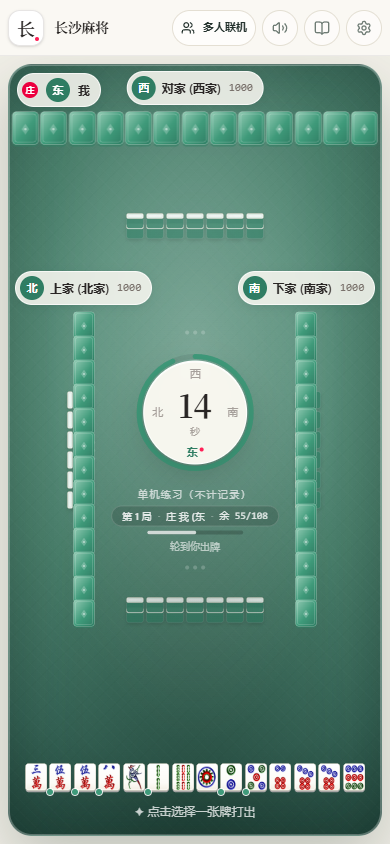
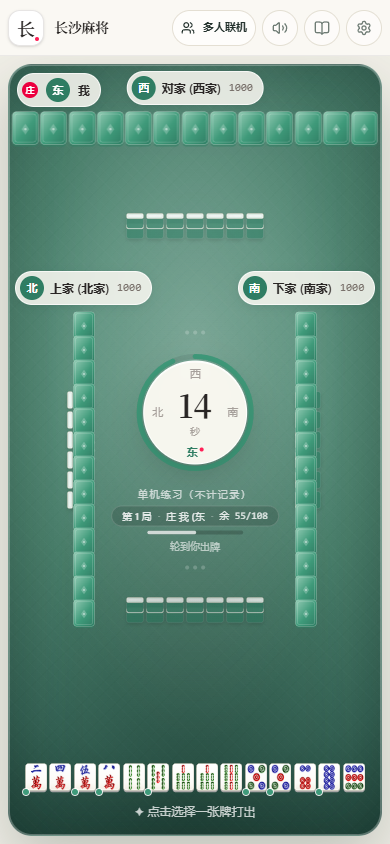
feat: lay melds flat (rotateX) so hand vs meld is unmistakable; clean CSS comments

diff --git a/src/mahjong.css b/src/mahjong.css
@@ -1,5 +1,8 @@
 /* ---------------------------------------------------------------------------
- * 闀挎矙楹诲皢 路 鐡风櫧闈掑矚 鈥?鐗屾鏉愯川銆佸姩鏁堜笌寮圭獥閫氱敤灞? * 鑹插€间竴寰嬪紩鐢?var(--color-*) / rgba锛岄伩鍏嶅湪缁勪欢灞傛暎钀界‖缂栫爜銆? * ------------------------------------------------------------------------- */
+ * 长沙麻将 · 瓷白青岚
+ * 牌桌材质、动效与弹窗通用层。
+ * 色值一律引用 var(--color-*) / rgba，避免在组件层散落硬编码。
+ * ------------------------------------------------------------------------- */
 
 @layer base {
   body {
@@ -14,7 +17,7 @@
   }
 }
 
-/* 闈掔摲姣涙锛氭煍鍜屽緞鍚戞笎鍙?+ 鏋佺粏鐨勭粡绾粐绾癸紙涓嶆槸楂樺姣旇姳绾癸級 */
+/* 青瓷毛毡：柔和径向渐变 + 极细的经纬织纹 */
 .mahjong-table {
   position: relative;
   overflow: hidden;
@@ -44,7 +47,7 @@
     radial-gradient(ellipse at 50% 118%, rgba(10, 28, 22, 0.32), transparent 62%);
 }
 
-/* 鐗屾鍥涘懆鐨勭粏鍐呯嚎锛氫竴鍦堝緢杞荤殑浜竟锛屾浛浠ｉ噾杈?*/
+/* 牌桌四周的一圈轻亮边，替代金边 */
 .table-rim {
   box-shadow:
     inset 0 0 0 1px rgba(255, 255, 255, 0.28),
@@ -53,7 +56,9 @@
 }
 
 /* ---------------------------------------------------------------------------
- * 鍏抽敭甯э細鍙姩 transform / opacity锛岄伩鍏嶅竷灞€鎶栧姩銆? * 鏃堕暱鍏ㄩ儴鏉ヨ嚜 --motion-* token锛涗笉鍋氶樆濉炲紡闀垮姩鐢汇€? * ------------------------------------------------------------------------- */
+ * 关键帧：只动 transform / opacity，避免布局抖动。
+ * 时长全部来自 --motion-* token；不做阻塞式长动画。
+ * ------------------------------------------------------------------------- */
 @keyframes fadeIn {
   from { opacity: 0; }
   to { opacity: 1; }
@@ -129,8 +134,9 @@
 }
 
 /*
- * 鍑虹墝 / 鎽哥墝鑺傚锛圥2-1 鏀跺彛锛屼繚鎸佸師鏈夋祴璇曞绾︼級
- * 瑙勮寖锛氬嚭鐗?鎽哥墝 150鈥?00ms ease-out锛涗笉寰楀嚭鐜般€岃秴杩?300ms 鎵嶈兘缁х画鎿嶄綔銆嶇殑闃诲鍔ㄧ敾銆? */
+ * 出牌 / 摸牌节奏（P2-1 收口，保持原有测试契约）
+ * 规范：出牌/摸牌 150–200ms ease-out；不得出现「超过 300ms 才能继续操作」的阻塞动画。
+ */
 .animate-tile-draw {
   animation: tileDraw var(--motion-base) var(--motion-ease-out) both;
 }
@@ -140,7 +146,8 @@
 }
 
 /* ---------------------------------------------------------------------------
- * 寮圭獥涓庤〃鍗曪細缁熶竴鐨勭焊鎰熷崱鐗囥€佺粏鍒嗛殧绾裤€佸厠鍒剁殑闃村奖銆? * ------------------------------------------------------------------------- */
+ * 弹窗与表单：统一的纸感卡片、细分隔线、克制的阴影。
+ * ------------------------------------------------------------------------- */
 .modal-backdrop {
   position: fixed;
   inset: 0;
@@ -206,7 +213,7 @@
 }
 .modal-close:hover { background: rgba(34, 48, 43, 0.06); color: var(--ui-ink); }
 
-/* 鍒嗘閫夋嫨鍣細涓?涓夋。璁剧疆缁熶竴浣跨敤 */
+/* 分段选择器 */
 .segmented {
   display: grid;
   gap: 0.4rem;
@@ -238,7 +245,7 @@
   box-shadow: 0 2px 8px rgba(34, 48, 43, 0.1);
 }
 
-/* 寮€鍏筹紙鐢ㄧ湡瀹?checkbox + 澶栬锛?*/
+/* 开关：真实 checkbox + 外观 */
 .toggle {
   position: relative;
   width: 2.6rem;
@@ -265,7 +272,6 @@ input:checked + .toggle { background: var(--color-jade-600); }
 input:checked + .toggle::after { transform: translateX(1.1rem); }
 input:focus-visible + .toggle { outline: 2px solid var(--color-jade-600); outline-offset: 2px; }
 
-/* 寮圭獥鍐呯殑淇℃伅鍧?*/
 .info-block {
   border-radius: 1rem;
   border: 1px solid var(--ui-line);
@@ -287,7 +293,14 @@ input:focus-visible + .toggle { outline: 2px solid var(--color-jade-600); outlin
   color: var(--ui-muted);
 }
 
-/* 鐗屾涓績鐨勬柟鍚戞枃瀛椾笌杩涘害鐜?*/
+/* 平躺的副露：绕底边向后仰，视觉上像躺在桌面上；手牌保持立起 */
+.meld-lying {
+  transform: perspective(620px) rotateX(38deg) scale(1.035);
+  transform-origin: 50% 100%;
+  filter: drop-shadow(0 5px 3px rgba(18, 42, 33, 0.28));
+}
+
+/* 桌心瓷盘 */
 .table-center-disc {
   background: rgba(255, 252, 244, 0.94);
   border: 1px solid rgba(255, 255, 255, 0.85);
@@ -298,7 +311,6 @@ input:focus-visible + .toggle { outline: 2px solid var(--color-jade-600); outlin
   -webkit-backdrop-filter: blur(6px);
 }
 
-/* 杞婚噺鐨勭瓑寰?杩炴帴鎸囩ず锛堜笉浣跨敤澶稿紶鐨?ping锛?*/
 .breathe {
   animation: fadeIn var(--motion-base) var(--motion-ease-out) both;
 }

diff --git a/src/components/MahjongTile.jsx b/src/components/MahjongTile.jsx
@@ -65,6 +65,7 @@ export default function MahjongTile({
   isTing = false,
   tingCount = null,
   showJiangBadge = false,
+  lying = false,
   rotation = 0,
   onClick = null,
   onMouseEnter = null,
@@ -152,7 +153,7 @@ export default function MahjongTile({
   if (isBack || !tile) {
     return (
       <div
-        className={`relative inline-block shrink-0 select-none cursor-default ${currentSizeClass} ${className}`}
+        className={`relative inline-block shrink-0 select-none cursor-default ${currentSizeClass} ${lying ? 'meld-lying' : ''} ${className}`}
         style={style}
         aria-hidden="true"
       >
@@ -193,7 +194,7 @@ export default function MahjongTile({
           : 'hover:-translate-y-0.5'
       } ${
         highlight ? 'ring-2 ring-white/90 ring-offset-1 ring-offset-transparent brightness-105 rounded-[10px]' : ''
-      } ${className}`}
+      } ${lying ? 'meld-lying' : ''} ${className}`}
       style={{
         ...style,
         ...dragStyle,

diff --git a/src/components/OpponentHand.jsx b/src/components/OpponentHand.jsx
@@ -114,6 +114,7 @@ export default function OpponentHand({
                           tile={tile}
                           size="discard"
                           isBack={meld.type === 'an_gang'}
+                          lying
                           className="ph-tile animate-deal-in"
                         />
                       </div>
@@ -131,6 +132,7 @@ export default function OpponentHand({
                         tile={tile}
                         size="discard-side"
                         isBack={meld.type === 'an_gang'}
+                        lying
                         className="animate-deal-in"
                       />
                     </div>

diff --git a/src/components/PlayerHand.jsx b/src/components/PlayerHand.jsx
@@ -105,6 +105,7 @@ export default function PlayerHand({
                     tile={tile}
                     size="meld"
                     showJiangBadge={showJiangBadge}
+                    lying
                     isBack={meld.type === 'an_gang' && tIdx > 0 && tIdx < 3}
                     className={`ph-tile ${meld.type === 'chi' && tIdx === 1 ? 'ring-1 ring-white/80 rounded-[10px]' : ''}`}
                   />

diff --git a/README.md b/README.md
@@ -28,7 +28,8 @@
 
 - **浅色纸面外壳**：暖白底、细分隔线、低对比阴影，顶栏只保留品牌、模式与四个工具按钮。
 - **青瓷毛毡牌桌**：雾青渐变 + 极细经纬织纹 + 一圈很轻的亮边；没有金边、紫晶罗盘和屏幕震动。
-- **象牙骨牌**：去掉琥珀金底壳，改为象牙白面板 + 一道极浅侧边；**万/条/筒 27 张牌面全部取自黄金岛 `MJFace2.0-High` 图集**（一~九 + 繁体「萬」的毛笔字块、原版竹节与圆饼），统一放在同一个牌面内框里居中显示。
+- **牌面与黄金岛一致**：27 张牌面（万/条/筒）全部取自 `MJFace2.0-High` 图集；万子是一~九 + 繁体「萬」的毛笔字块，条/筒是原版竹节与圆饼。
+- **手牌立起、副露平躺**：手牌保持竖向立体牌身；吃/碰/杠副露绕底边后仰 38°（`rotateX`），看起来是躺在桌面上的牌，和手牌一眼可分。
 - **三套桌面**：雾青（默认）/ 暖砂 / 夜潭，只换毛毡色，不改变规则与联机同步。
 - **安静的动效**：摸牌 180ms 滑入、出牌落桌、弹窗上浮、碰杠胡小标签 180ms 淡入；没有长时间阻塞与全屏抖动。
 

diff --git a/docs/DESIGN.md b/docs/DESIGN.md
@@ -194,6 +194,7 @@
   `x=6 y=6 width=60 height=80` 的同一内框里，`preserveAspectRatio="xMidYMid meet"` 保证水平+垂直居中；
   万子是一~九 + 繁体「萬」的毛笔字块（蓝墨数字 / 朱砂萬），条/筒是原版竹节与圆饼。图源与裁切见 `src/assets/hjd/`。
 - 状态：默认（象牙面 + 青瓷背）/ 选中（抬起 + 玉色 ring）/ 高亮可操作（白 ring + `brightness-105`）/ 禁用（`opacity-40`）。
+- **手牌 vs 副露**：手牌竖立、带牌身厚度与上浮选中态；吃/碰/杠副露通过 `.meld-lying` 绕底边 `rotateX(38deg)`，视觉上平躺在桌面，底边贴桌并带柔和平影。副露容器用半透明纸片托底并标「吃/碰/杠」，与手牌明显区分。
 - 牌面数字**必须可辨**：在最小弃牌尺寸下，万/条/筒的识别优先于装饰纹理。
 - 牌背：青瓷渐变 + 细白线 + 菱形暗记，不得出现可辨认的花色信息（防作弊属性）。
 
